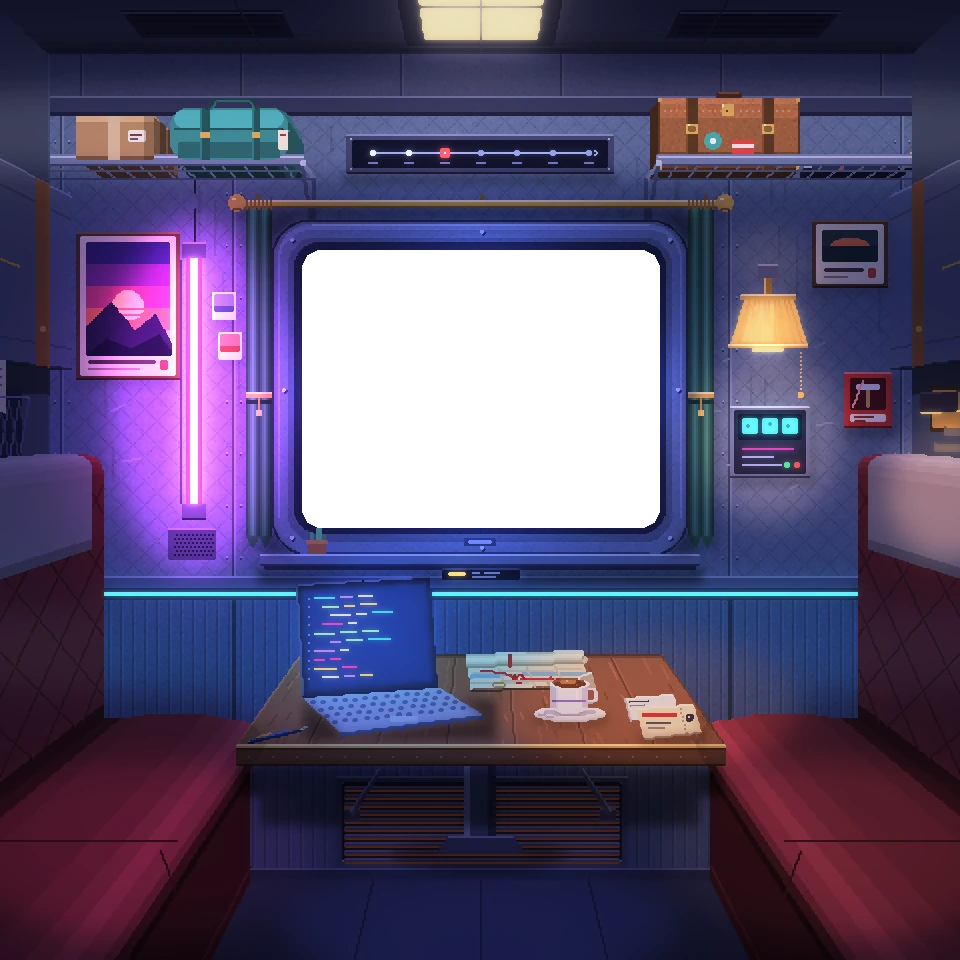
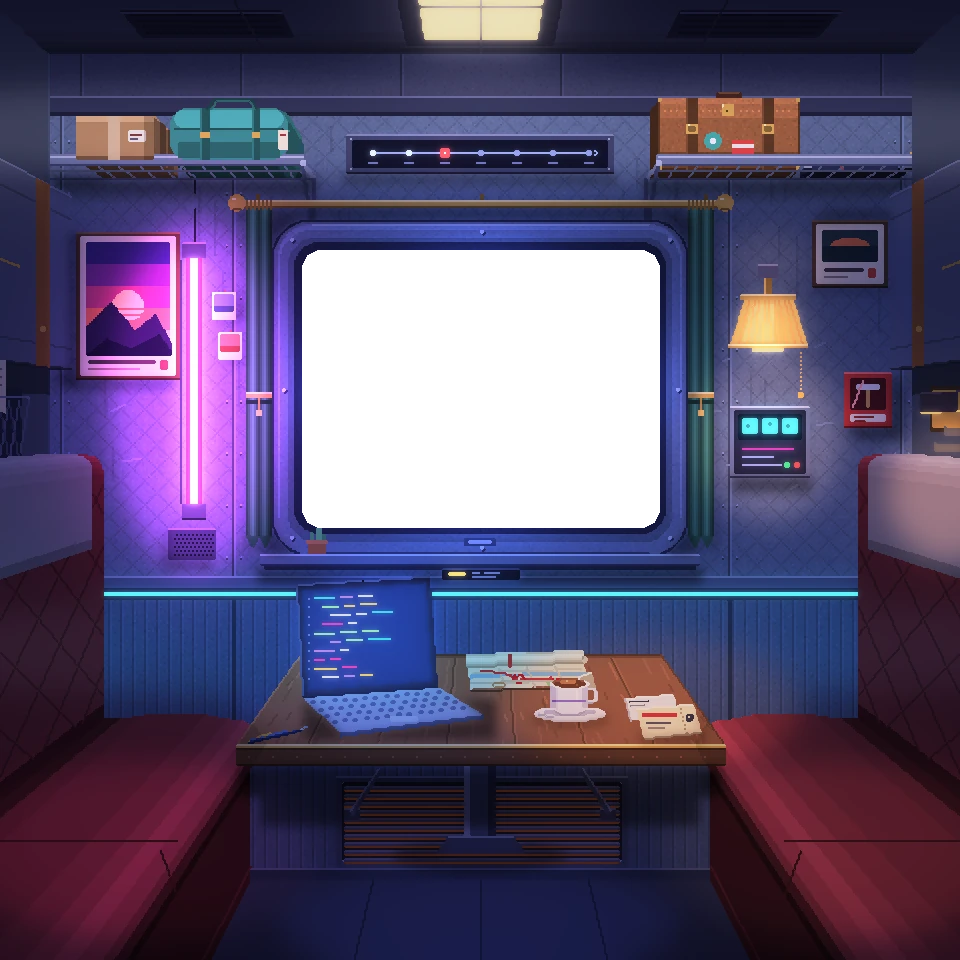
art(L-01): wall fittings cast shadows away from their lights
A shadow is the fitting's outline slid away from its nearest light, darkest against it and fading along its length: away from the neon on the left, away from the lamp on the right, and down from the ceiling strip under each rack.

diff --git a/tools/art/room.py b/tools/art/room.py
@@ -773,8 +773,24 @@ def poster(g, x, y, w, h, kind):
     g.rect(x + w - 8, y + h - 8, 4, 5, (200, 70, 70))
 
 
+def cast(g, x, y, w, h, dx, dy, k=0.3, steps=6):
+    """The shadow an object standing off the wall throws on it (docs/13, L-01):
+    its outline (x, y, w, h) slid (dx, dy) away from the light that casts it,
+    darkest and hardest against the object and fading along its length. Draw
+    it before the object, which covers the part beneath itself."""
+    for i in range(steps, 0, -1):  # far and pale first; nearer steps cover them
+        t = i / steps
+        g.shadow(round(x + dx * t), round(y + dy * t), w, h, k + (1 - k) * 0.7 * t)
+
+
 def walls(g, rnd):
+    # Every fitting throws a shadow away from its nearest light: the neon tube
+    # on the left, the lamp on the right, the ceiling strip over the racks.
+    # ---- the racks' shadow on the wall below them, from the ceiling strip
+    for x0, x1 in ((24, 158), (322, 456)):
+        cast(g, x0, 86, x1 - x0, 5, 0, 9, 0.4)
     # ---- left wall
+    cast(g, 37, 115, 54, 76, -10, 4)  # the poster, left of the tube
     poster(g, 40, 118, 48, 70, 'sunset')
     # neon tube
     g.line([(97, 58), (97, 96)], (30, 30, 50))
@@ -790,12 +806,13 @@ def walls(g, rnd):
     g.light(56, 110, 84, 176, MAG, 0.6)
     # instant photos
     for x, y, c in ((106, 146, (90, 130, 170)), (109, 166, (190, 120, 90))):
-        g.shadow(x, y + 1, 13, 15, 0.7)
+        cast(g, x, y, 12, 14, 5, 2, 0.3, 3)  # right beside the tube: short, hard
         g.rect(x, y, 12, 14, (238, 234, 224))
         g.rect(x + 1, y + 1, 10, 9, c)
         g.rect(x + 1, y + 7, 10, 3, mul(c, 0.6))
         g.px(x + 6, y - 1, (220, 70, 70))
     # speaker
+    cast(g, 84, 264, 24, 16, -3, 6, 0.35, 4)
     g.rect(84, 264, 24, 16, (52, 58, 90))
     g.rect(84, 264, 24, 1, (110, 118, 156))
     for y in range(267, 278, 2):
@@ -822,7 +839,7 @@ def walls(g, rnd):
     g.light(348, 176, 72, 84, (255, 160, 80), 0.34)
     g.light(362, 116, 44, 30, (255, 160, 80), 0.2)
     # control panel (outside any focus region, decorative only)
-    g.shadow(365, 204, 42, 38, 0.6)
+    cast(g, 365, 203, 40, 36, 1, 9)  # straight under the lamp
     g.rect(365, 203, 40, 36, (92, 104, 142))
     g.rect(365, 203, 40, 1, (160, 172, 206))
     g.rect(365, 238, 40, 1, (44, 50, 80))
@@ -837,8 +854,9 @@ def walls(g, rnd):
     g.lrect(397, 231, 3, 3, (255, 80, 80), 0.8)
     g.lrect(392, 231, 3, 3, (90, 255, 150), 0.7)
     # small picture frame and emergency hammer
+    cast(g, 406, 110, 38, 34, 7, -6, 0.4)  # above and right of the lamp
     poster(g, 408, 112, 34, 30, 'moon')
-    g.shadow(423, 188, 26, 30, 0.6)
+    cast(g, 422, 186, 24, 28, 7, 7)  # below and right of it
     g.rect(422, 186, 24, 28, (196, 56, 62))
     g.rect(422, 186, 24, 1, (255, 120, 120))
     g.rect(422, 213, 24, 1, (110, 30, 40))

diff --git a/docs/13-art-review.md b/docs/13-art-review.md
@@ -865,8 +865,8 @@ something else.
 | 2     | 2.1  | done    | cup and saucer drawn at 0.62 about the saucer's foot; pen lengthened to about 14 cm; steam and cursor positions generated                                                                                                                  |
 | 2     | 2.2  | done    | journey is a map along the back of the table, mostly rolled into a tube with a rubber band, the open strip askew, creased, a coffee ring, its near corner curling up; the cup stays where it was, in front of it, and is cut out of the map's sprite; the pen moves to the left of the laptop; the line display is a decoy with no hotspot; the rack keeps its box |
 | 2     | 2.3  | done    | business card behind the ticket, peeking out on the table side; ticket moved in from the edge; reserved: notebook at the table's front-left corner, hobby object in place of the holdall                                                   |
-| 3     | 3.1  | review  | value plan as a grade on the render (`VALUE_PLAN` in `room.py`): the window wall lifted 16% and cooled, fading out below the table; benches down 14%; headrest covers darker; the foreground was already darkest |
-| 3     | 3.2  | pending |                                                                                                                                                                                                                                            |
+| 3     | 3.1  | done    | value plan as a grade on the render (`VALUE_PLAN` in `room.py`): the window wall lifted 16% and cooled, fading out below the table; benches down 14%; headrest covers darker; the foreground was already darkest |
+| 3     | 3.2  | review  | `cast()` in `room.py`: each wall fitting's outline slid away from its nearest light, dark against the object and fading; the poster and photos away from the neon, the panel, hammer box and frame away from the lamp, a band under each rack from the ceiling strip |
 | 3     | 3.3  | pending |                                                                                                                                                                                                                                            |
 | 3     | 3.4  | pending |                                                                                                                                                                                                                                            |
 | 3     | 3.5  | pending |                                                                                                                                                                                                                                            |
@@ -910,7 +910,7 @@ Done so far in stage 1, beyond what the step table names:
   behind the rack's rail this way.
 
 Stage 1 passed its gate and is merged. Stage 2 passed its gate and is merged.
-Stage 3 has started: the value plan (3.1) is built and waiting at its gate.
+Stage 3 is under way: the value plan (3.1) passed its gate; cast shadows (3.2) are built and waiting for review.
 
 ## Keep in sync
 
